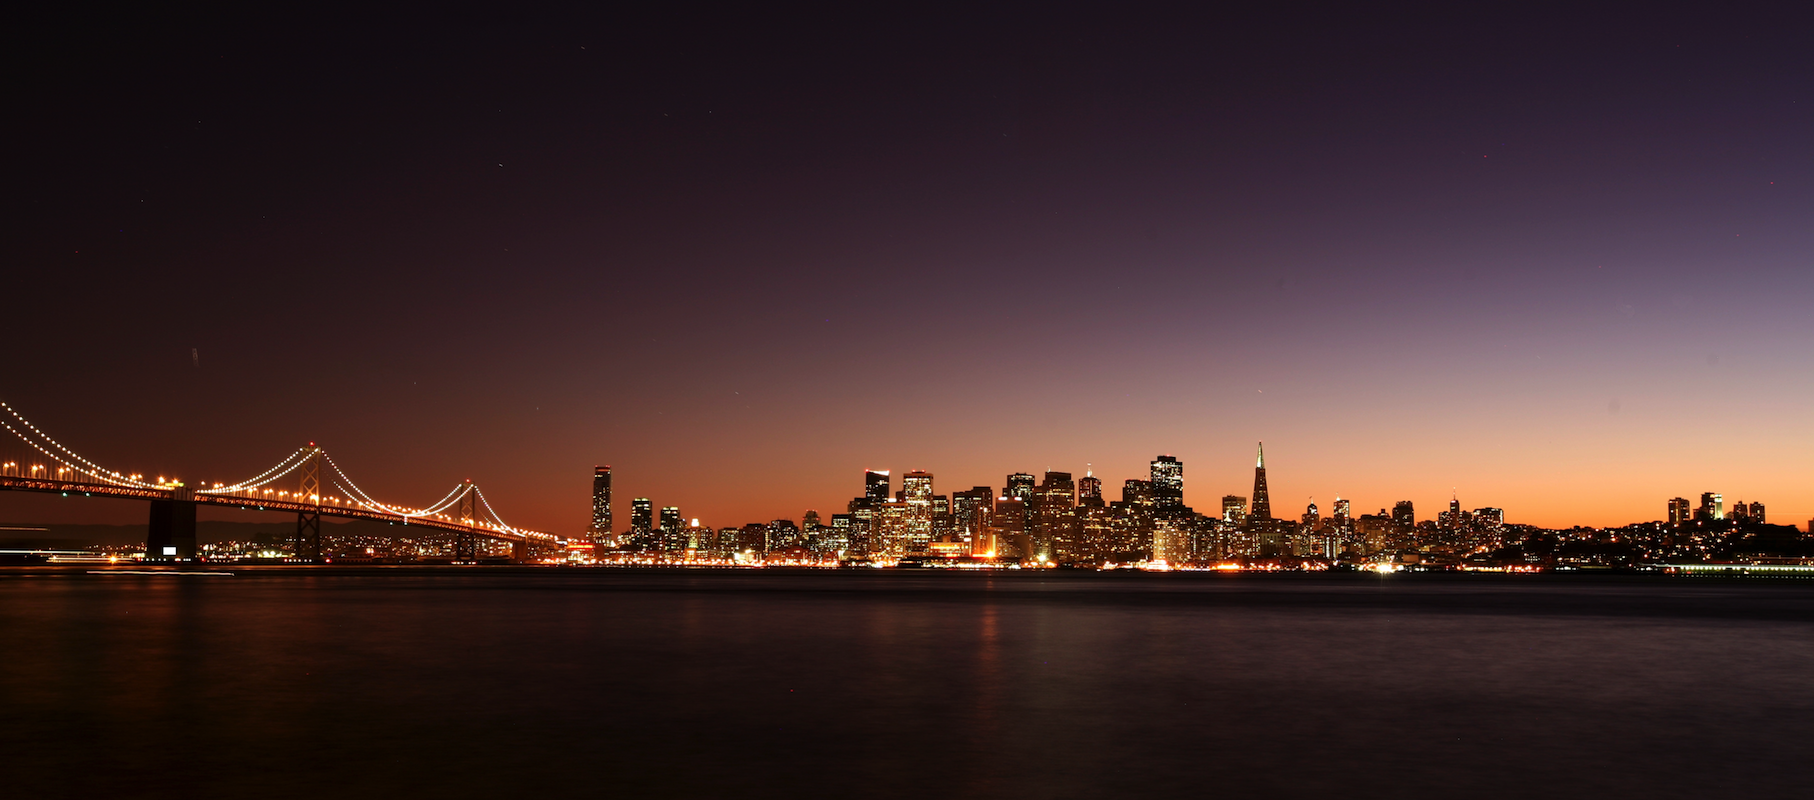
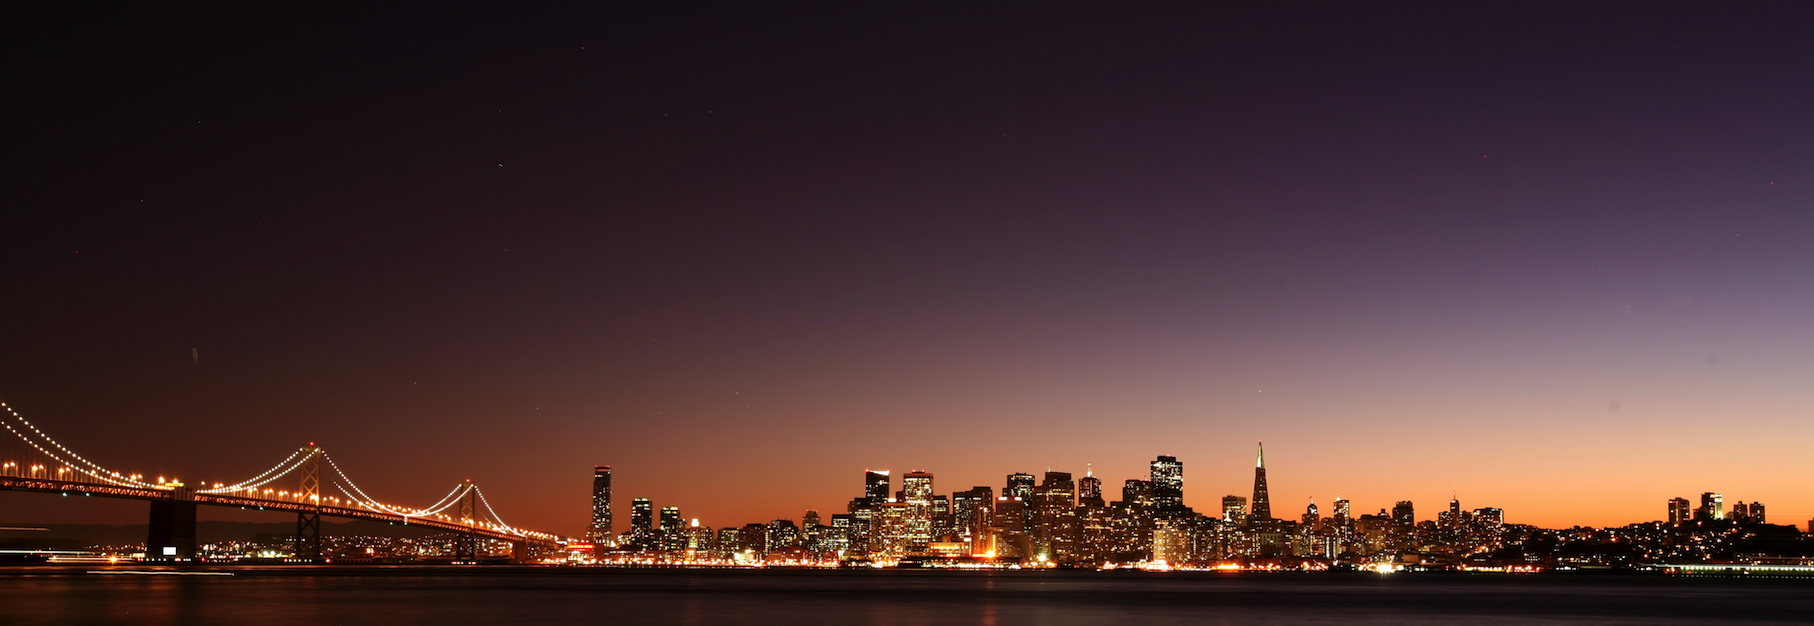
image stuff

diff --git a/index.html b/index.html
@@ -1,13 +1,12 @@
 <html>
-<head>
-  <title>Joseph Simonian</title>
-  <link rel="icon" type="image/png" href="./images/favicon.png" sizes="16x16">
-  <link href='http://fonts.googleapis.com/css?family=Roboto:400,700' rel='stylesheet' type='text/css'>
-  <link rel="stylesheet" type="text/css" href="main.css" media="screen">
-</head>
-<body>
-    <div id="bg"></div>
-  <!-- <img class="bg" src="/images/skyline.jpg" alt="San Francisco Skyline"> -->
-</body>
+  <head>
+    <title>Joseph Simonian</title>
+    <link rel="icon" type="image/png" href="./images/favicon.png" sizes="16x16">
+    <link href='http://fonts.googleapis.com/css?family=Roboto:400,700' rel='stylesheet' type='text/css'>
+    <link rel="stylesheet" type="text/css" href="main.css" media="screen">
+  </head>
+  <body>
+      <div id="bg"></div>
+    <!-- <p>San Francisco skyline by <a href="http//www.dennisgoedegebuure.com" >DennisG</a> <a href="http://thenextcorner.net/pictures/"> TNC Pics</a> under <a href="http://creativecommons.org/licenses/by-nd/2.0/" rel="nofollow">creative commons 2.0</a></p> -->
+  </body>
 </html>
-San Francisco skyline by <a href="http//www.dennisgoedegebuure.com" >DennisG</a> <a href="http://thenextcorner.net/pictures/"> TNC Pics</a> under <a href="http://creativecommons.org/licenses/by-nd/2.0/" rel="nofollow">creative commons 2.0</a>

diff --git a/main.css b/main.css
@@ -1,21 +1,22 @@
 h1 { font-family: Roberto, font-weight: 700; }
 p { font-family: Roberto, font-weight: 400; }
 
+body {
+  margin: 0px;
+  background: linear-gradient(340deg, #221826, #0b060a)
+}
+
 header {
-  position: absolute;
-  width: 100%;
-  height: 120px;
-  top: 0;
-  left: 0;
-  text-align: center;
-  background-color: #d3d3d3;
+
 }
 
 div#bg {
   background: url("./images/skyline.png");
+  background-size: 100% auto;
+  background-position: center bottom;
+  background-repeat: no-repeat;
   height: 100%;
   width: 100%;
-  position: fixed;
   bottom: 0;
   left: 0;
   pointer-events: none;
